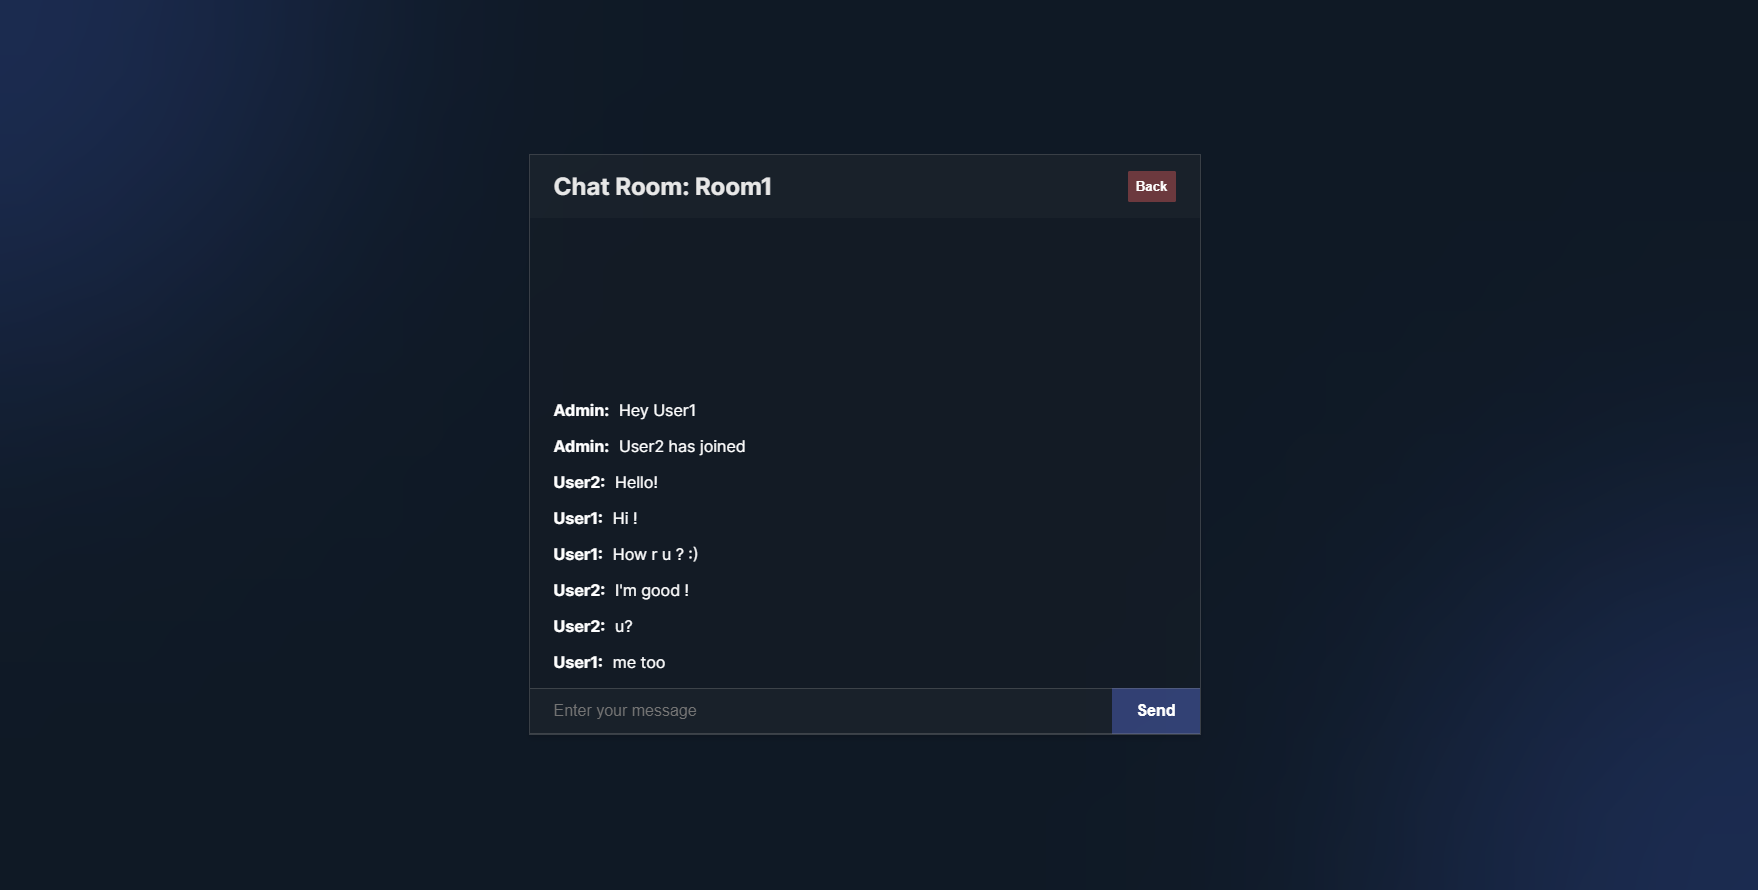
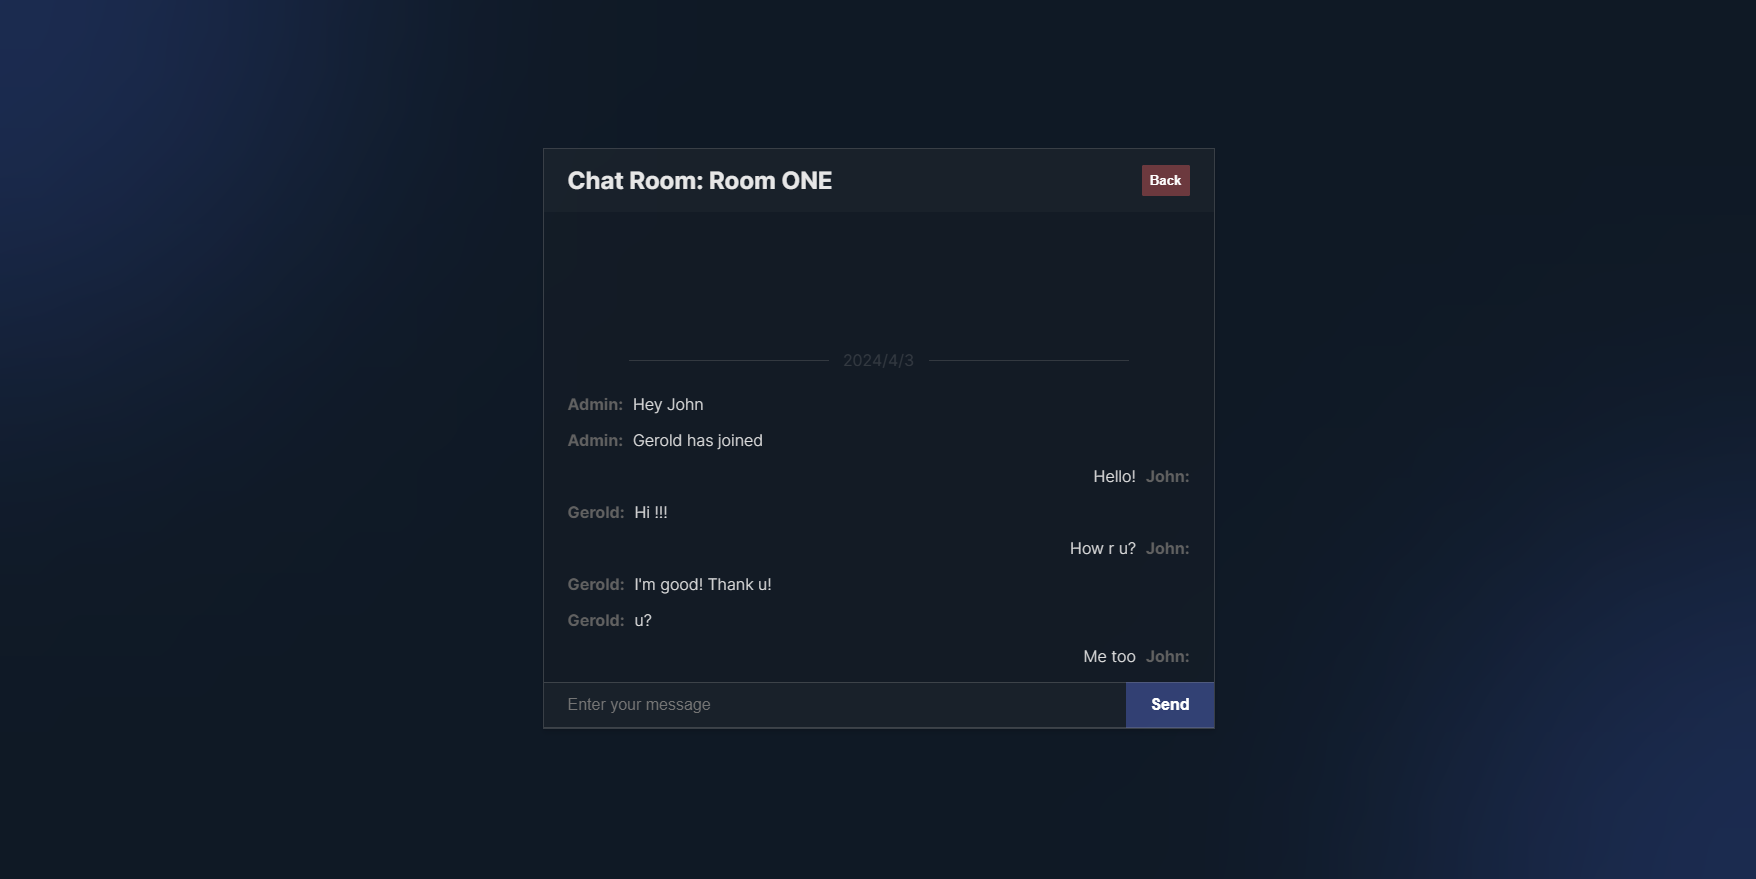
chat redesign

diff --git a/client/src/app/[chat]/page.tsx b/client/src/app/[chat]/page.tsx
@@ -78,10 +78,11 @@ const ChatPage = ({ searchParams }: any) => {
             <p className={styles.date}>{getDate().fullDate}</p>
           </div>
           {/* Display messages */}
-          {messages.length === 0 && <div className={styles.messages}>No messages yet</div>}
           {messages.map((msg, index) => (
-            <div key={index} className={styles.messages}>
-              <strong>{msg?.data?.user?.name}:</strong> {msg.data?.message}
+            <div key={index} className={`${styles.messages} ${msg.data.user.name === name ? styles.user_message : styles.other_message}`}>
+              {msg.data.user.name !== name && <strong className={styles.username}>{msg?.data?.user?.name}:</strong>}
+              <p className={styles.message}>{msg.data?.message}</p>
+              {msg.data.user.name === name && <strong className={styles.username}>{msg?.data?.user?.name}:</strong>}
             </div>
           ))}
         </div>

diff --git a/client/src/styles/chat.module.css b/client/src/styles/chat.module.css
@@ -131,3 +131,26 @@
   margin-bottom: 1rem;
   transition: 0.3s;
 }
+
+/* username */
+
+.username {
+  color: #616161;
+}
+
+/* user message */
+
+.message {
+  color: #dfdfdf;
+  font-weight: 300;
+}
+
+.user_message {
+  align-self: flex-end;
+  justify-content: flex-end;
+}
+
+.other_message {
+  align-self: flex-start;
+  justify-content: flex-start;
+}
